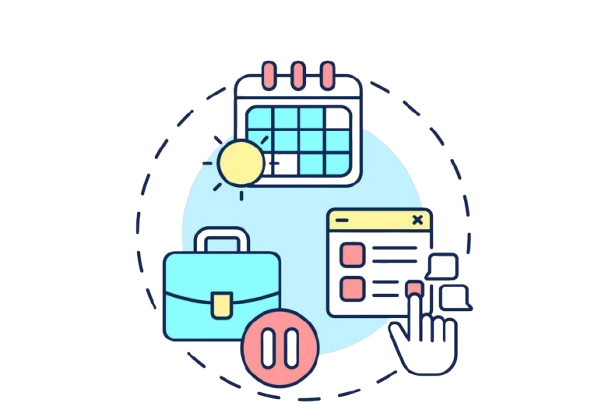
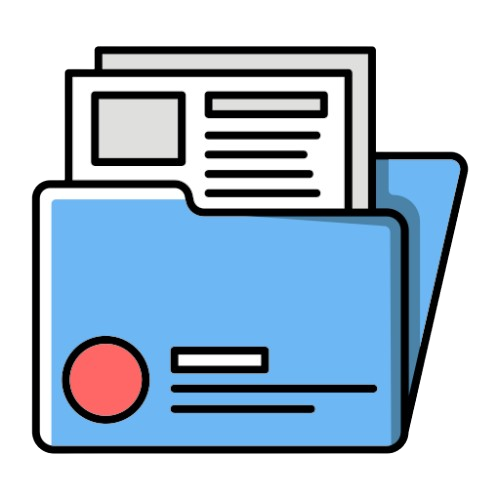
Service Records

diff --git a/resources/css/leaveCredits.css b/resources/css/leaveCredits.css
@@ -147,3 +147,33 @@
     background-color: #218838;
 }
 
+.btn-nice {
+    background-color: #2563eb;
+    color: white;
+    padding: 0.5rem 1rem;
+    border: none;
+    margin-bottom: 5px;
+    border-radius: 0.375rem;
+    font-weight: 600;
+    box-shadow: 0 2px 6px rgba(0, 0, 0, 0.15);
+    cursor: pointer;
+    transition: background-color 0.2s;
+}
+
+.btn-nice:hover {
+    background-color: #1d4ed8;
+}
+
+.btn-green {
+    background-color: #16a34a;
+}
+
+.btn-green:hover {
+    background-color: #15803d;
+}
+
+.btn-group {
+    display: flex;
+    gap: 0.5rem;
+}
+

diff --git a/resources/views/leaveCredits.blade.php b/resources/views/leaveCredits.blade.php
@@ -42,15 +42,16 @@
                             <td>{{ $employee->sick_leave !== null ? floor($employee->sick_leave) : 'N/A' }}</td>
                             <!-- Sick leave (calculated) -->
                             <td>
-                                <button class="view-details-button"
-                                    onclick="openUseBalanceModal({{ $employee->id }}, {{ $employee->leave_balance ?? 0 }}, {{ $employee->sick_leave ?? 0 }}, '{{ $employee->full_name }}', '{{ $employee->date_hired }}')">
-                                    Use Leave Credits
+                                <button class="btn-nice"
+                                onclick="openUseBalanceModal({{ $employee->id }}, {{ $employee->leave_balance ?? 0 }}, {{ $employee->sick_leave ?? 0 }}, '{{ $employee->full_name }}', '{{ $employee->date_hired }}')">
+                                Use Leave Credits
+                            </button>
+                        
+                            <a href="{{ route('getEmployeeData', ['id' => $employee->id]) }}" target="_blank">
+                                <button class="btn-nice btn-green">
+                                    Leave Credit File
                                 </button>
-                                <a href="{{ route('getEmployeeData', ['id' => $employee->id]) }}" target="_blank">
-                                    <button class="view-details-button">
-                                        Leave Credit File
-                                    </button>
-                                </a>
+                            </a>
                             </td>
                         </tr>
                     @empty

diff --git a/resources/views/layouts/sidebar.blade.php b/resources/views/layouts/sidebar.blade.php
@@ -11,9 +11,10 @@
         <img src="{{ asset('nosa.png') }}" alt="Nosa" class="sidebar-nosa">
     </a>
 
-    <a href="#" class="service-records-button" data-title="Service Records">
-        <img src="{{ asset('leaveCredits.png') }}" alt="Service Records" class="sidebar-service-records">
+    <a href="{{ route('service.records') }}" class="service-records-button" data-title="Service Records">
+        <img src="{{ asset('Service_Records.png') }}" alt="Service Records" class="sidebar-service-records">
     </a>
+    
 
 
     <!-- Personal Data Sheet Button -->
@@ -23,7 +24,7 @@
 
     <!-- Leave Credits Button -->
     <a href="/leave-credits" class="leave-credits-button" data-title="Leave Credits">
-        <img src="{{ asset('Service_Records.png') }}" alt="Leave Credits" class="sidebar-leave-credits">
+        <img src="{{ asset('leaveCredits.png') }}" alt="Leave Credits" class="sidebar-leave-credits">
     </a>
     
 

diff --git a/routes/web.php b/routes/web.php
@@ -14,6 +14,10 @@ use App\Http\Controllers\EmploymentController;
 use App\Http\Controllers\LeaveCreditsController;
 use App\Models\Designation;
 use App\Models\Department;
+use App\Http\Controllers\ServiceRecordsController;
+
+
+
 
 // Redirect root to login page
 Route::get('/', function () {
@@ -110,3 +114,6 @@ Route::get('/get-department-name/{departmentId}', function ($departmentId) {
 Route::get('/leave-credits', [LeaveCreditsController::class, 'index']);
 Route::get('/get-employee-data/{id}', [LeaveCreditsController::class, 'getEmployeeData'])->name('getEmployeeData');
 Route::post('/save-leave-usage', [LeaveCreditsController::class, 'saveLeaveUsage']);
+
+
+Route::get('/service-records', [ServiceRecordsController::class, 'index'])->name('service.records');

diff --git a/resources/views/serviceRecords.blade.php b/resources/views/serviceRecords.blade.php
@@ -1,0 +1,14 @@
+@extends('layouts.master')
+
+@section('title', 'Service Records')
+
+@section('content')
+<meta name="csrf-token" content="{{ csrf_token() }}">
+
+<div class="container mt-4">
+    <h1 class="mb-4">Service Records</h1>
+
+    <!-- Table or other UI components will go here -->
+
+</div>
+@endsection

diff --git a/app/Http/Controllers/ServiceRecordsController.php b/app/Http/Controllers/ServiceRecordsController.php
@@ -1,0 +1,13 @@
+<?php
+
+namespace App\Http\Controllers;
+
+use Illuminate\Http\Request;
+
+class ServiceRecordsController extends Controller
+{
+    public function index()
+    {
+        return view('serviceRecords'); // blade file should be resources/views/serviceRecords.blade.php
+    }
+}
